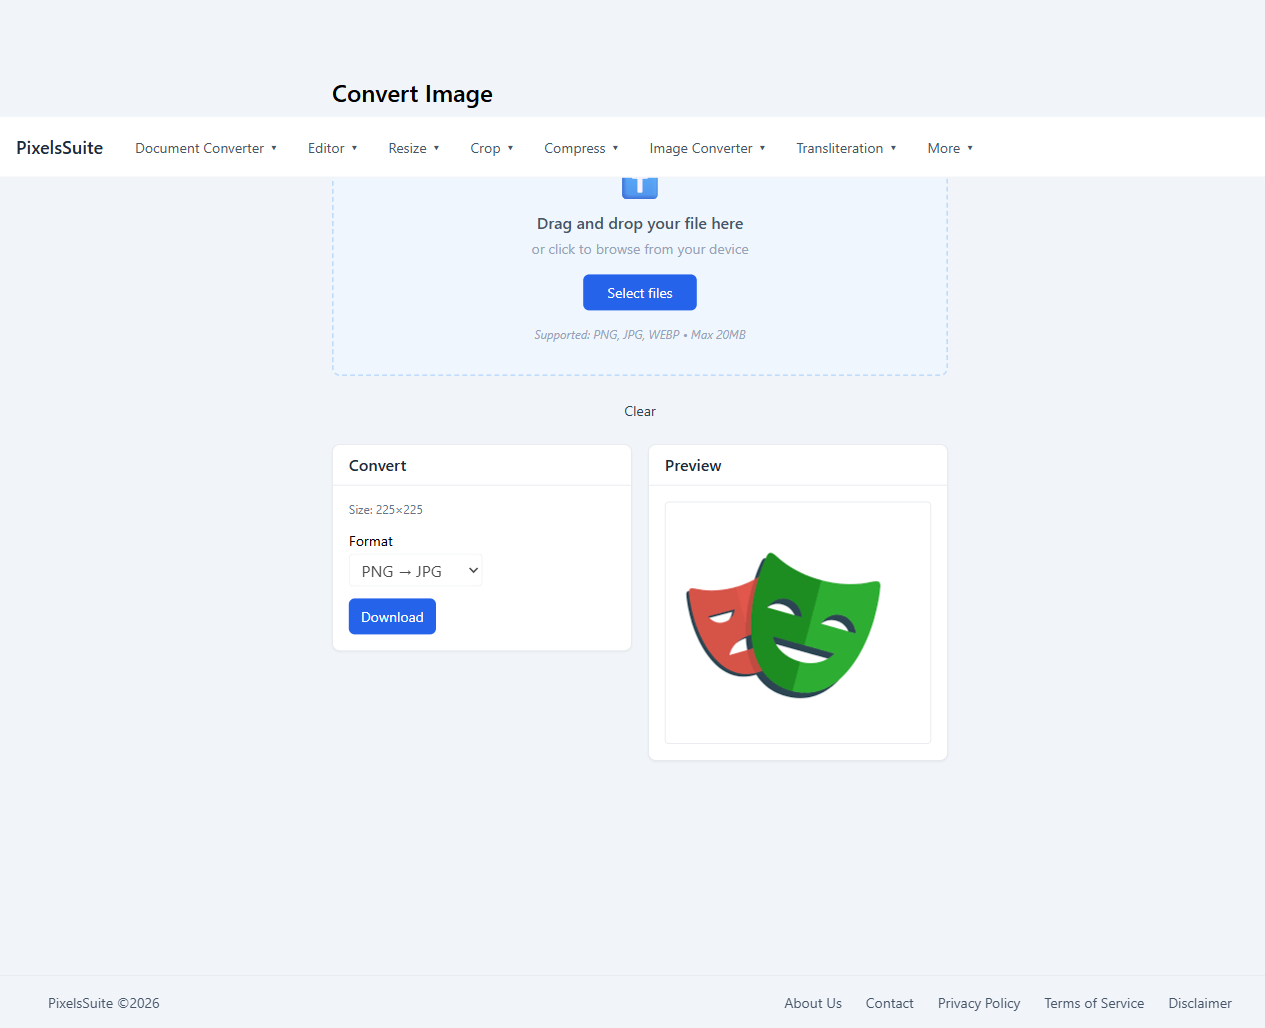
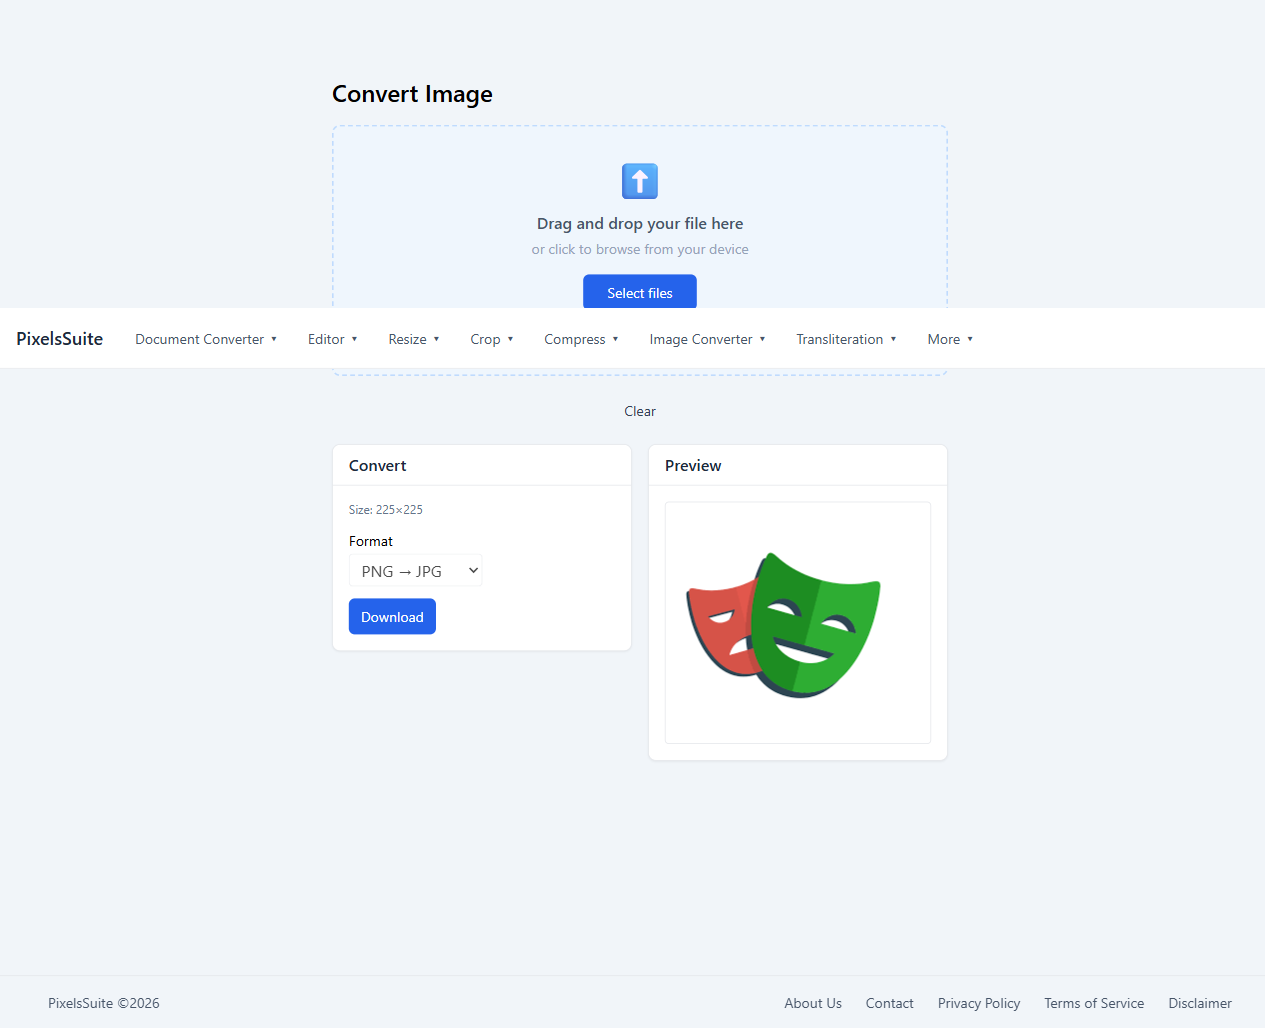
last changes

diff --git a/results/README.md b/results/README.md
@@ -1,0 +1,37 @@
+# ITPM Assignment 1 – Option 2
+
+## Project Overview
+
+This project performs functional and usability testing on the website:
+https://www.pixelssuite.com/
+
+## Automation Testing
+
+Automated using Playwright (Python) to verify preview functionality for PNG image conversion.
+
+## How to Run
+
+### 1. Install dependencies
+
+pip install playwright openpyxl
+python -m playwright install
+
+### 2. Run the test
+
+python image_preview_test.py --url "https://www.pixelssuite.com/convert-to-png" --slow-mo-ms 2000
+
+## Output
+
+* execution_results.csv (test results)
+* results/preview_pass.png (screenshot proof)
+
+## Manual Testing
+
+36 test cases are included in the Excel file.
+
+## Repository Contents
+
+* Automation scripts
+* CSV results
+* Screenshot proof
+* Manual test cases